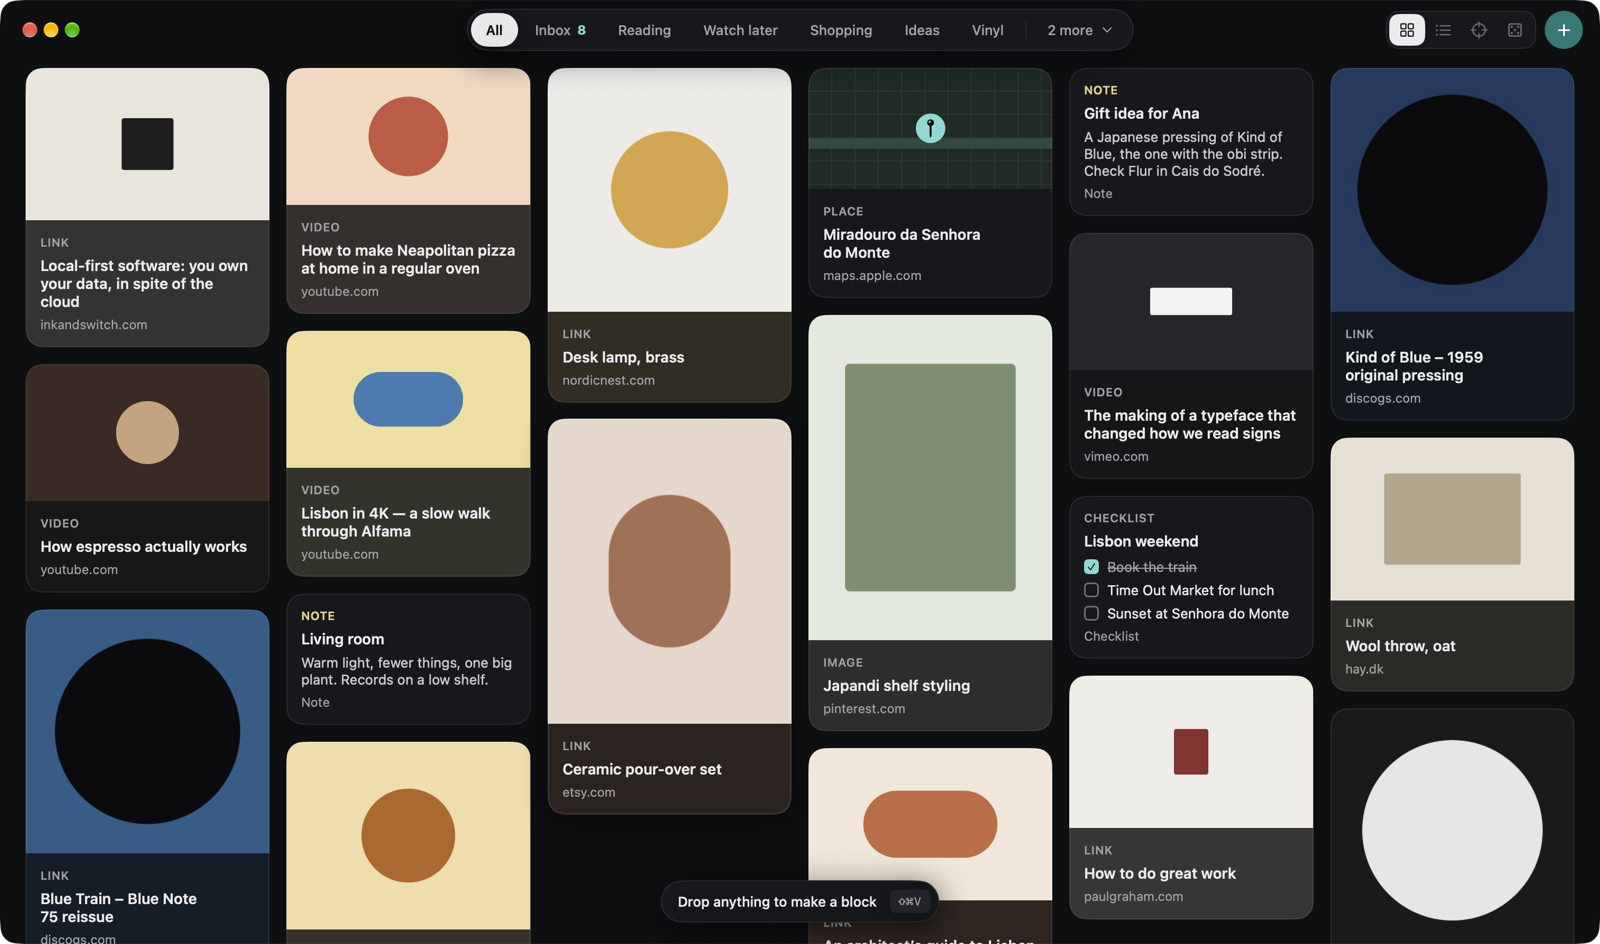
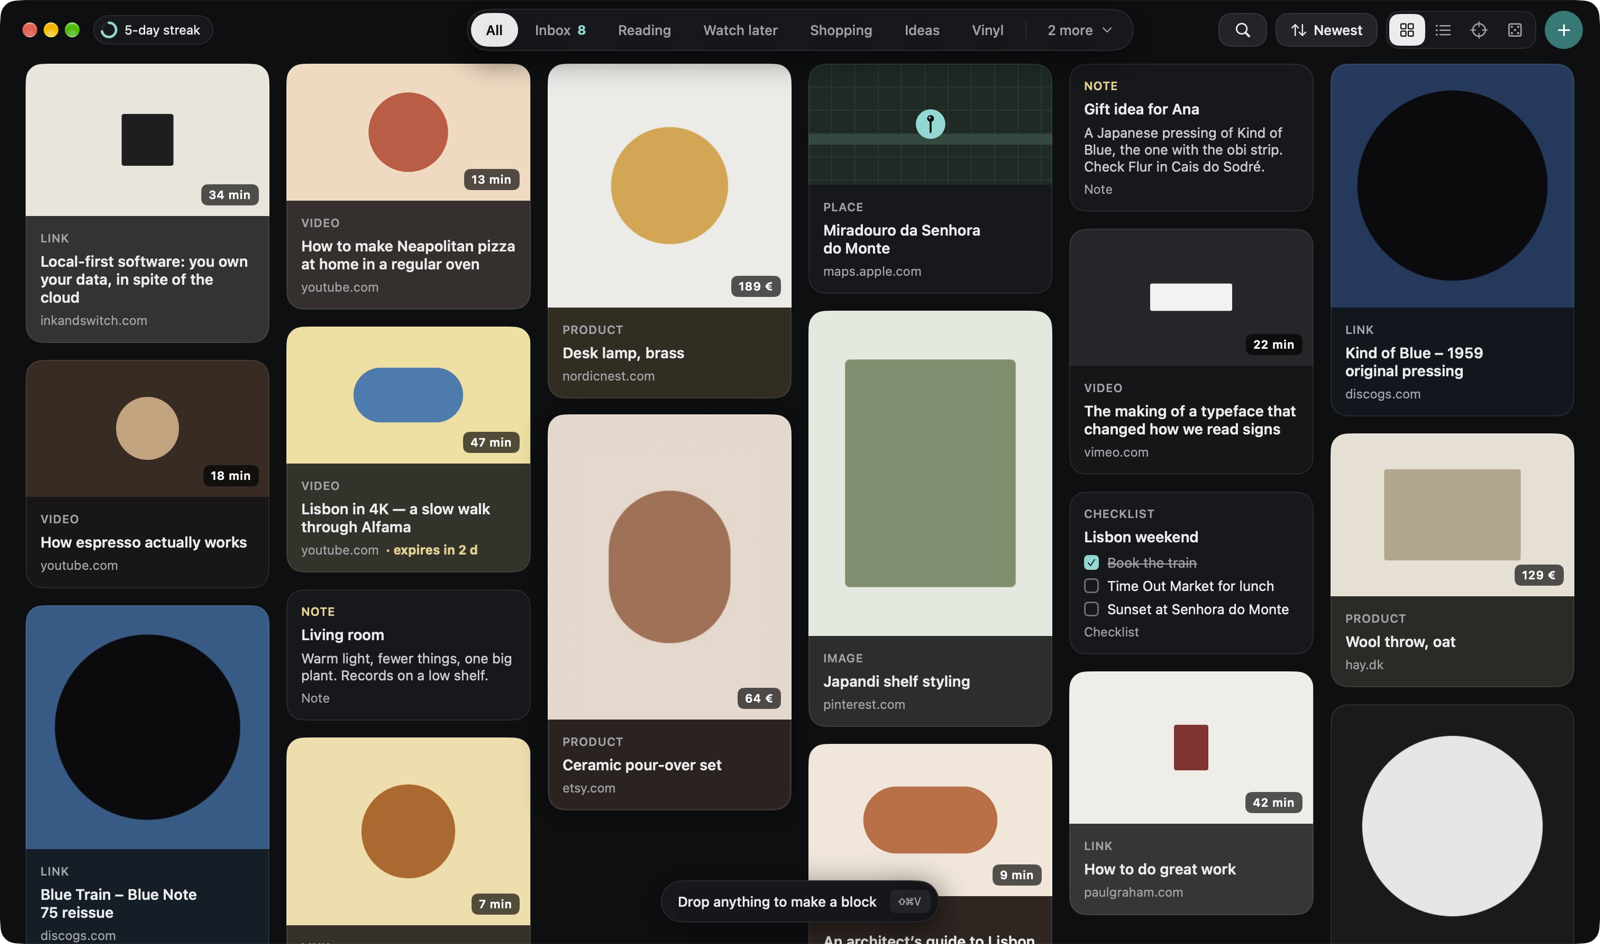
Docs: the README, roadmap and contributing guide describe all of v1, with new screenshots

diff --git a/CONTRIBUTING.md b/CONTRIBUTING.md
@@ -15,8 +15,10 @@ Thanks for helping out!
     runs off the main thread (`Ingest.swift`), and export and import of the whole library
     (`ExportImport.swift`; the file formats are in `MagpieKit/Export.swift`). A new model field
     must be added to the export too, or the round-trip check in the self-test fails
-  - `MainWindow/`: the window, its top bar, the drop target and the bottom hint (`MainView.swift`)
-  - `Gallery/`: the masonry of cards (`GalleryView.swift`)
+  - `MainWindow/`: the window, its top bar, the drop target and the bottom hint (`MainView.swift`),
+    and the "Saved to Inbox" message shown after a drop on the Dock icon (`DropHUD.swift`)
+  - `Gallery/`: the masonry of cards and the right-click menu every Block shares (`GalleryView.swift`),
+    and dragging cards into your own order (`Reorder.swift`)
   - `Journal/`: the Journal, a numbered list of the same blocks (`JournalView.swift`). Sort
     orders are in `MagpieKit/BlockOrder.swift`
   - `SortInbox/`: Sort Inbox, one Inbox block at a time (`SortInboxView.swift`). The queue and the
@@ -33,12 +35,14 @@ Thanks for helping out!
     tag menu and prompts (`TagViews.swift`). Name rules are in `MagpieKit/Tags.swift`
   - `Details/`: the panel that slides in for a selected Block (`DetailsPanel.swift`)
   - `Collections/`: the "N more" panel to find, pin and create collections (`CollectionsPopover.swift`)
-  - `Settings/`: the Settings window (⌘,)
+  - `Settings/`: the Settings window (⌘,), with General and Shortcuts tabs (`SettingsView.swift`)
   - `DesignKit/`: Magpie's own look. Tokens, type, icons, parts (buttons, cards, controls, the
     top bar) and the window chrome
   - `Debug/`: the self-test, snapshot mode and sample data
 - `Sources/MagpieKit/` holds the rules with no UI (link parsing and normalizing, masonry math,
-  color math, the collection tree, the Sort Inbox queue and suggestions, the Inbox zero streak, piles and Lucky Dip, and `PageReader`, which reads video length, price, recipes and read time from a page's HTML), so they can be unit tested. Put new logic there, not in the views.
+  color math, the collection tree, the Sort Inbox queue and suggestions, the Inbox zero streak, piles and Lucky Dip,
+  sort orders, tags, search, Rediscover and expiry, the bookmarks file, the export format, and `PageReader`,
+  which reads video length, price, recipes and read time from a page's HTML), so they can be unit tested. Put new logic there, not in the views.
 - The app target builds in Swift 6 mode with the main actor as its default isolation. Mark slow
   work `nonisolated` and run it off the main thread, like the preview fetch in `Ingest.swift`.
 - The data model follows CloudKit's rules so iCloud sync can be turned on later without a

diff --git a/README.md b/README.md
@@ -32,15 +32,20 @@ and then nudges you to read, watch and use what you saved.
 
 ## Features
 
-- **Paste or drop anything.** Links get their title, picture and site name filled in on their own
-- **Gallery** of image-first cards, each tinted with its picture's color
-- **Collections**, with up to 5 pinned in the top bar
-- **Details panel** for any Block
-- Dark by default, with Light or Match my Mac in Settings
+- **Save anything.** Paste, drop or add links, images, videos, files, notes and checklists. Links get their title, picture and site name on their own, and videos, products and places show their length, price or a map
+- **Quick Save** (⌃⌥Space, anywhere) saves Safari's front tab or the clipboard without leaving what you're doing. You can also drop things onto the Dock icon, or turn a screenshot into a Block (⌃⌥S)
+- **Gallery and Journal.** See image-first cards, each tinted with its picture's color, or a dense list. Sort by newest, quickest, title, site, color, shuffle or your own order
+- **Collections and tags.** Nest collections, pin up to 5 to the top bar, and tag across them
+- **Sort Inbox.** Go through new saves one at a time from the keyboard, with a suggested collection. Reaching Inbox zero keeps a daily streak
+- **Lucky Dip.** Can't decide what to read or watch? Pick a pile and how much time you have, and Magpie picks one. You get two re-spins a day, then you commit
+- **Rediscover.** Five old saves a day to keep or archive. Collections like Watch later can expire their Blocks, so they empty themselves
+- **Search everything,** including the text inside your images
+- **Import your bookmarks** from Safari, Chrome or Firefox, with folders becoming collections
+- Dark by default, with Light or Match my Mac. Every action has a keyboard shortcut
 - Local and private. Everything stays on your Mac, with no account and no server
 - Never locked in: File → Export Library writes everything to plain files (JSON, pictures, and a bookmarks file any browser imports)
 
-Coming next: Sort Inbox, Lucky Dip, Rediscover, search, tags and Quick Save. See the [roadmap](ROADMAP.md).
+Coming next: an iPhone app with iCloud sync, and saving from the Share menu. See the [roadmap](ROADMAP.md).
 
 ## Build from source
 

diff --git a/ROADMAP.md b/ROADMAP.md
@@ -1,27 +1,16 @@
 # Roadmap
 
-What comes after 0.1, in the order it's planned.
+## v1: the Mac app (done, not yet released)
 
-## v1: the Mac app
+Saving from anywhere (Quick Save, the Dock icon, screenshots, bookmark import), the Gallery
+and Journal, nested collections and tags, Sort Inbox with a daily streak, Lucky Dip,
+Rediscover and expiring collections, search that includes text in images, and a full export.
+See the [changelog](CHANGELOG.md) for the details.
 
-- **Organize.** Nest, rename, reorder and delete collections. Tags. Choose how a collection
-  is sorted (newest, oldest, quickest, title, site, color, shuffle or your own order).
-- **Sort Inbox.** Go through new Blocks one at a time from the keyboard: move, done, skip or
-  delete. Reaching Inbox zero keeps a daily streak.
-- **Journal.** A dense numbered list, next to the Gallery.
-- **Smarter Blocks.** Recognize videos (with their length), products (with their price) and places.
-- **Lucky Dip.** Pick one random Block from a pile (Read, Watch, Listen, Cook, Visit), limited
-  to the time you have. Two re-spins a day, then you commit.
-- **Rediscover.** A few random old saves to keep or archive. Collections whose Blocks expire,
-  like a Watch later that empties itself after 30 days.
-- **Speed.** Search everything, including text inside images. A global shortcut that saves the
-  front Safari tab or the clipboard. Full keyboard control.
-- **System.** Save from the Share menu, drop onto the Dock icon, turn a screenshot into a
-  Block, and import bookmarks exported from Safari, Chrome or Firefox.
-
-## v1.1: iPhone
+## v1.1: iPhone and the Share menu
 
 - An iPhone app with a share sheet
+- Save from the Share menu on the Mac (a Share extension)
 - iCloud sync between the Mac and the iPhone. The data model already follows CloudKit's
   rules, so this needs no migration.
 

diff --git a/CHANGELOG.md b/CHANGELOG.md
@@ -40,20 +40,14 @@ The format follows [Keep a Changelog](https://keepachangelog.com/en/1.1.0/) and 
 ### Fixed
 
 - A crash when a block was deleted while its card was still fading out (for example ⌫ in Sort Inbox)
-
 - Magpie's own checks no longer open pages in your browser
-
 - Deleting a card no longer makes the other cards overlap while the Gallery rearranges
-
 - Dropping onto the Dock icon now works for pictures, files, Safari link files and website links dragged from Chrome or Safari. Magpie never becomes your default app or browser for any of them
-
 - The demo and test libraries no longer change how your real library is sorted
-
 - YouTube videos show the video's title, not the channel's name, and Vimeo videos their real title too
 - Google Maps and Apple Maps links are named after the place ("Torre de Belém") and show the mini map instead of a generic picture
 - Pages that forward you with a redirect in their HTML (like inkandswitch.com) get their title, picture and read time
 - Saving a link you already have refreshes its title, picture, length and price
-
 - The Collections panel and the + New block menu have a solid background, so the cards behind them no longer show through the text
 
 ## [0.1.0] - 2026-11-07
